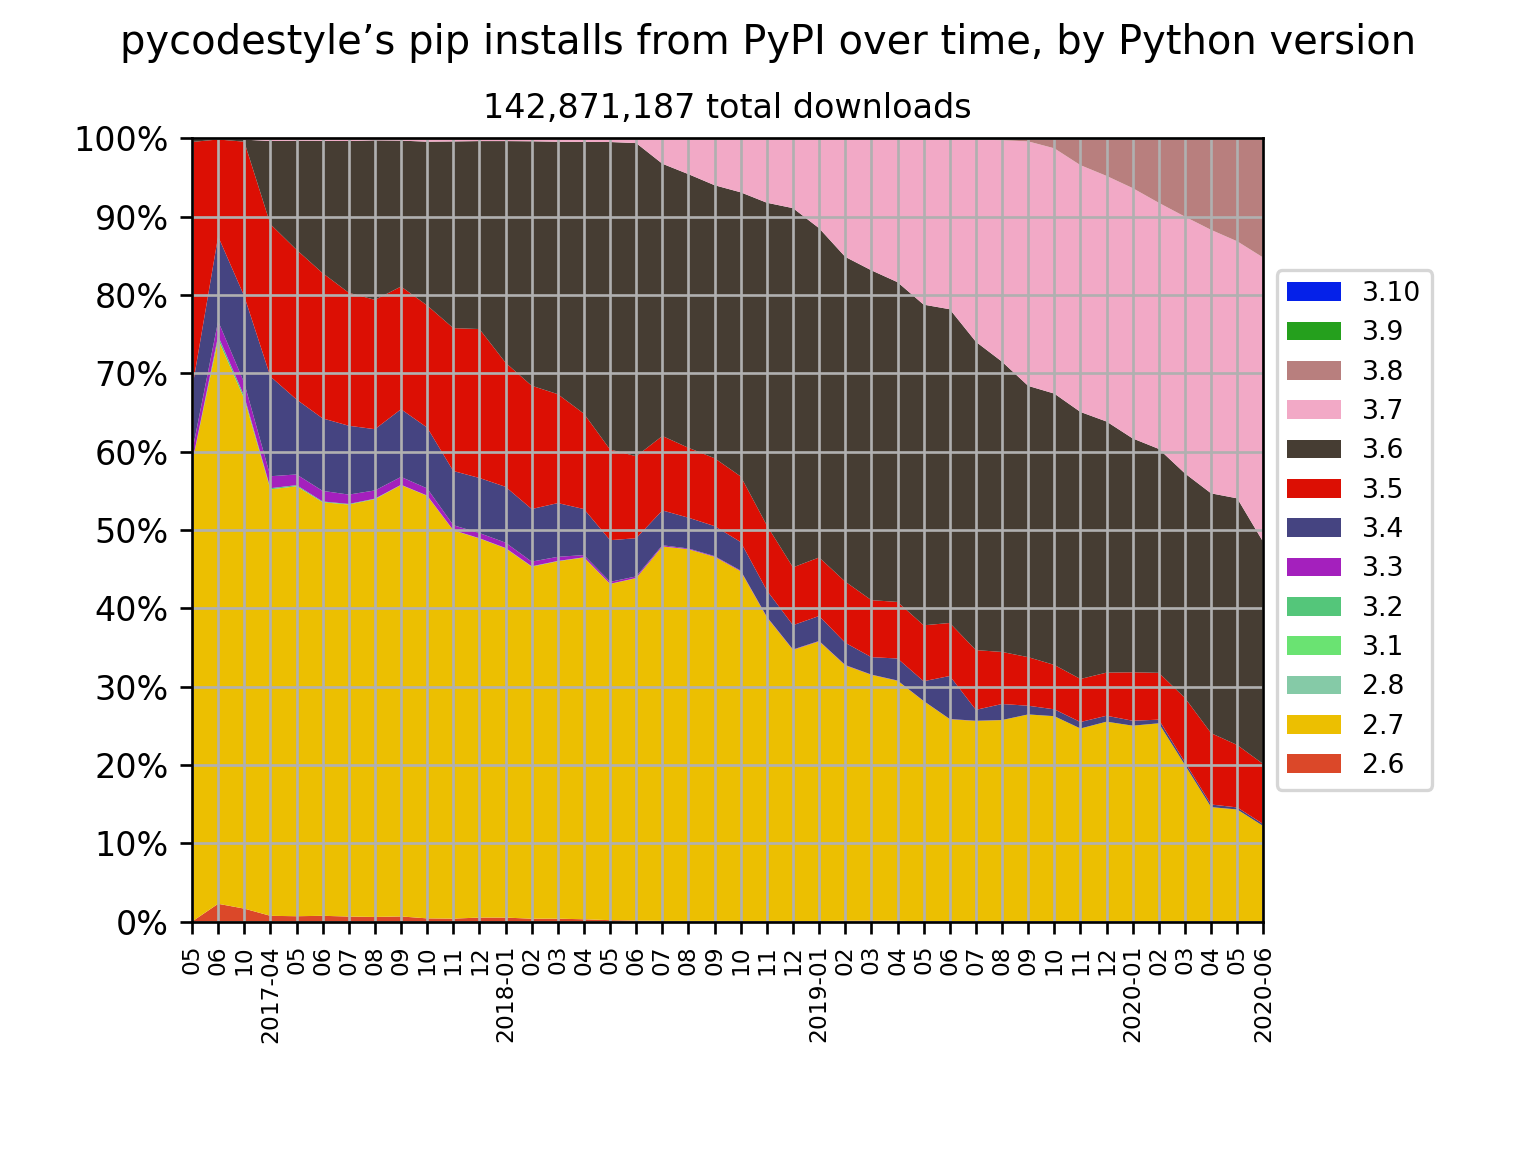
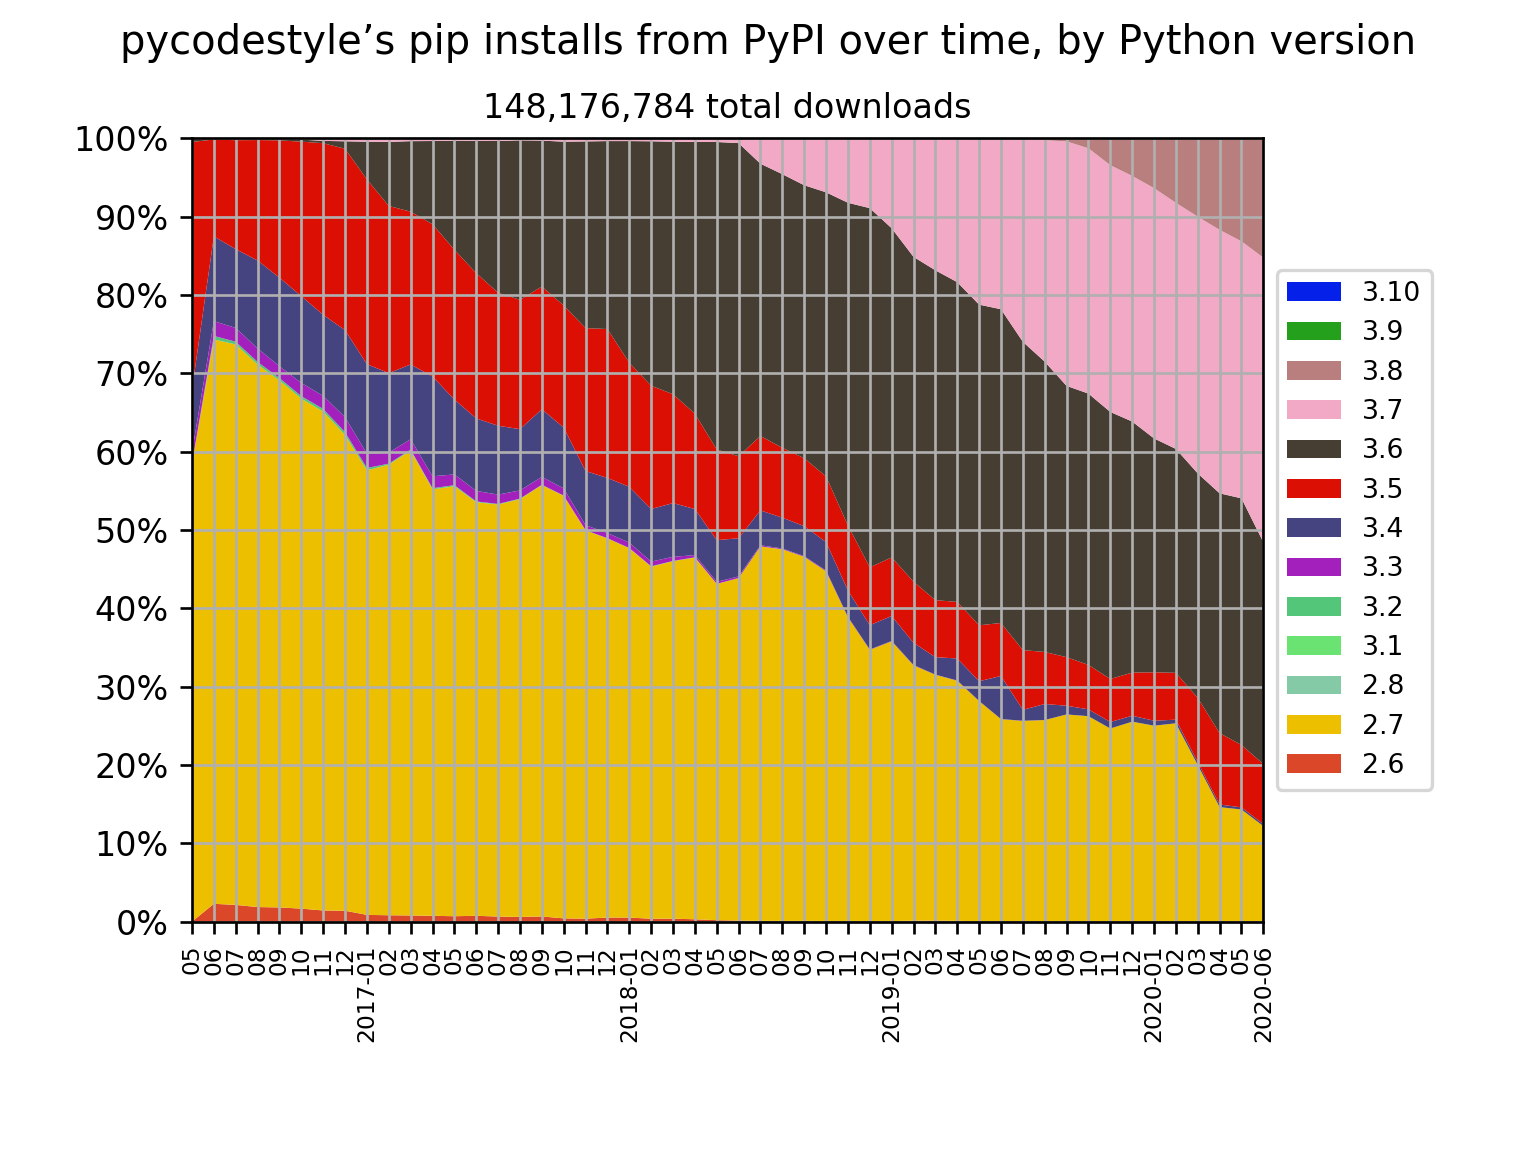
Add pycodestyle data

Changed region(s): [[0.125, 0.0625, 0.8125, 0.9062]]

diff --git a/README.md b/README.md
@@ -100,6 +100,12 @@ Imaging library
 
 ![](images/pip-install-matplotlib.png)
 
+### [pycodestyle](https://github.com/PyCQA/pycodestyle)
+
+Style checker
+
+![](images/pip-install-pycodestyle.png)
+
 ### [Flake8](https://gitlab.com/pycqa/flake8)
 
 Linter
